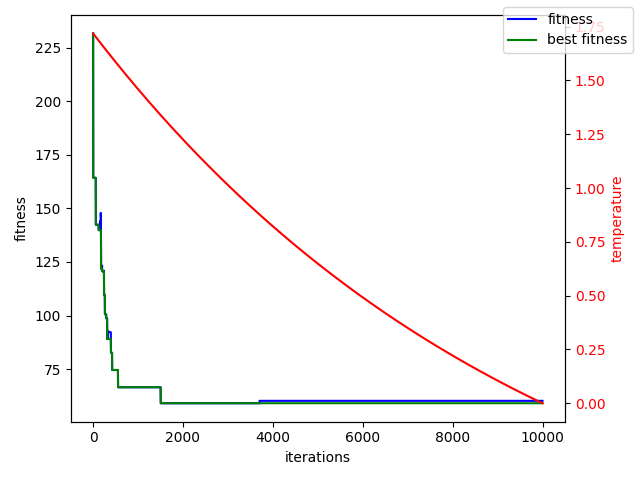
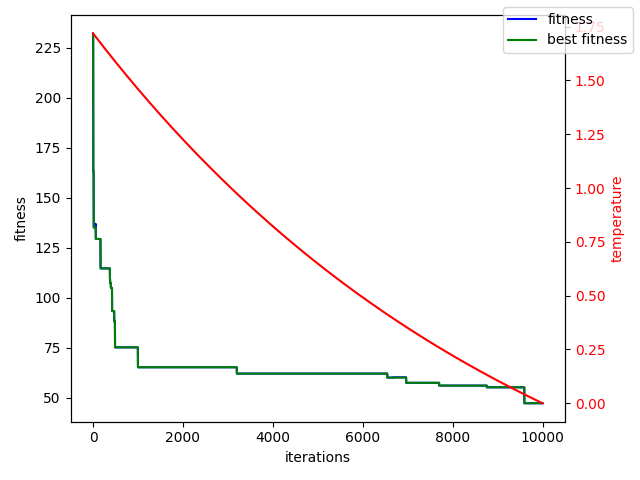
test rastrigin on SA and TSA

diff --git a/rastrigin.py b/rastrigin.py
@@ -1,39 +1,75 @@
 import numpy as np
 
 from continuous_fn import cts_mutate, cts_crossover
-from simulated_annealing import simulated_annealing, print_simulated_annealing, metropolis_hastings_algorithm_probability
+from simulated_annealing import (simulated_annealing, 
+                                    thermodynamic_simulated_annealing,
+                                    thermodynamic_init_temp,
+                                    print_simulated_annealing, 
+                                    metropolis_hastings_algorithm_probability)
+class Rastrigin():
+    def __init__(self, n, A=10):
+        self.n = n 
+        self.A = A
 
-def rastrigin_random_feasible_point(n):
-    """
-    Rastrigin continuous function
+    def random_feasible_point(self):
+        """
+        Rastrigin continuous function
 
-    Input
-    n: dimension of the input space
+        Output
+        result: a randomly generated point in the feasible solution space 
 
-    Output
-    result: a randomly generated point in the feasible solution space 
+        x in range [-5.12, 5.12]^n
+        """
+        return np.random.uniform(-5.12, 5.12, self.n)
 
-    x in range [-5.12, 5.12]^n
-    """
-    return np.random.uniform(-5.12, 5.12, n)
+    def fitness(self, x):
+        """
+        Rastrigin continuous function: optimize for the minimum
 
-def rastrigin(x, A=10):
-    """
-    Rastrigin continuous function: optimize for the minimum
+        x in range [-5.12, 5.12]^n
+        """
+        return self.A*self.n + np.sum(np.square(x) - self.A*np.cos(2*np.pi*x))
 
-    x in range [-5.12, 5.12]^n
-    """
-    return A*len(x) + np.sum(np.square(x) - A*np.cos(2*np.pi*x))
+    def mutate(self, x):
+        return np.clip(cts_mutate(x, sigma=1), a_min=-5.12, a_max=5.12)
 
-def rastrigin_mutate(x):
-    return np.clip(cts_mutate(x, sigma=1), a_min=-5.12, a_max=5.12)
+    def crossover(self, p1, p2, num_children=1):
+        unclipped = cts_crossover(p1, p2, num_children=num_children)
+        return [np.clip(unclip) for unclip in unclipped]
 
 Ns = [1, 5, 10]
-"""
-Simulated Annealing Test
-"""
 for n in Ns:
-    init = rastrigin_random_feasible_point(n)
-    sols, fits, temps = simulated_annealing(init, lambda x: np.exp(x)-1, rastrigin_mutate, metropolis_hastings_algorithm_probability, 
-        rastrigin, max_iterations=1000*n)
+    print("="*80)
+    print(f"RASTRIGIN N={n}")
+    rastrigin = Rastrigin(n)
+    """
+    Coral Reef Optimization
+    """
+
+    """
+    Genetic Algorithm
+    """
+
+
+    """
+    Simulated Annealing
+    """
+    print("-"*80)
+    print(f"Simulated Annealing")
+    init = rastrigin.random_feasible_point()
+    sols, fits, temps = simulated_annealing(init, lambda x: np.exp(x)-1, rastrigin.mutate, metropolis_hastings_algorithm_probability, 
+        rastrigin.fitness, max_iterations=1000*n)
     print_simulated_annealing(sols, fits, temps, f"Rastrigin_SA_n={n}_temp=e^x-1.png")
+
+    """
+    Thermodynamic Simulated Annealing
+    """
+    print("-"*80)
+    high_prob = 0.8
+    init_temp = thermodynamic_init_temp(100, high_prob, rastrigin.fitness, rastrigin.random_feasible_point)
+    k_A = 0.1
+    print(f"Thermodynamic SA init_temp = {init_temp} k_A = {k_A}")
+    sols, fits, temps = thermodynamic_simulated_annealing(init, init_temp, k_A, rastrigin.mutate, metropolis_hastings_algorithm_probability, 
+        rastrigin.fitness, max_iterations=1000*n)
+    print_simulated_annealing(sols, fits, temps, f"Rastrigin_thermodynamic_SA_n={n}_highprob={high_prob}_kA={k_A}.png")
+

diff --git a/simulated_annealing.py b/simulated_annealing.py
@@ -3,6 +3,7 @@ import numpy as np
 import matplotlib.pyplot as plt
 
 # todo make this into object?
+epsilon = 1e-5
 
 def simulated_annealing(init, temp_fn, neighbor_fn, prob_fn, fitness_fn, max_iterations):
     assert max_iterations > 0
@@ -50,7 +51,7 @@ def thermodynamic_simulated_annealing(init, init_temp, k_A, neighbor_fn, prob_fn
             total_cost_variation += delta_cost
         
         if delta_cost > 0: # update total entropy variation
-            total_entropy_variation = total_entropy_variation - delta_cost/T 
+            total_entropy_variation = total_entropy_variation - delta_cost/(T+epsilon) 
         
         if total_cost_variation >= 0 or total_entropy_variation == 0: # use default temp
             T = init_temp 
@@ -67,7 +68,7 @@ def metropolis_hastings_algorithm_probability(e, e_new, T):
     if e_new < e:
         return 1 
     else:
-        return np.exp(-(e_new-e)/(T+1e-5))
+        return np.exp(-(e_new-e)/(T+epsilon))
 
 """Temperature(x): x in [0,1] starts at 1 and decreases linearly to 0"""
 def exponential_temperature(x, alpha):
